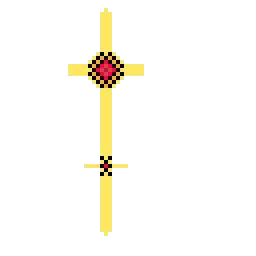
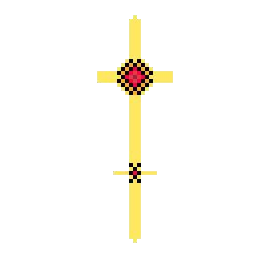
Add files via upload

Changed region(s): [[0.25, 0.0312, 0.6875, 0.9688]]

diff --git a/Game name/js/game_draw_inv.js b/Game name/js/game_draw_inv.js
@@ -53,6 +53,8 @@ function drawinv()
 				{
 					xkr = i; ykr = j;
 					ctx.strokeRect(i*1000, j*1000, 1000, 1000);
+					if (hola)
+						ctx.drawImage(hol,i*1000+40, j*1000+40, 920, 920);
 					ctx.drawImage(krestik,i*1000+40, j*1000+40, 920, 920);
 					break;
 				}
@@ -149,7 +151,7 @@ function drawinv()
 			{
 				ctx.fillRect(xncont+100, yvcont+500, 1000, 500);
 				ctx.fillRect(xncont+1200, yvcont+500, 1500, 500);
-					ctx.fillRect(xncont+2800, yvcont+500, 1000, 500);
+				ctx.fillRect(xncont+2800, yvcont+500, 1000, 500);
 				ctx.fillStyle = "rgba(255, 255, 255, 0.7)";
 				ctx.font = "220px 'Didact Gothic', sans-serif";
 				ctx.textAlign = "center";
@@ -212,21 +214,27 @@ function drawinv()
 			}
 			case 6://krestcont
 			{
-				ctx.fillRect(xncont+500, yvcont+500, 1500, 500);
-				ctx.fillRect(xncont+2100, yvcont+500, 1500, 500);
+				ctx.fillRect(xncont+100, yvcont+500, 1500, 500);
+				ctx.fillRect(xncont+1700, yvcont+500, 1000, 500);
+				ctx.fillRect(xncont+2800, yvcont+500, 1000, 500);
 				ctx.fillStyle = "rgba(255, 255, 255, 0.7)";
-				ctx.font = "300px 'Didact Gothic', sans-serif";
+				ctx.font = "220px 'Didact Gothic', sans-serif";
 				ctx.textAlign = "center";
-				ctx.fillText("Ўзяць у рукі", xncont+1250, yvcont+850);
-				ctx.fillText("Выкінуць", xncont+2850, yvcont+850);
+				ctx.fillText("Узяць у рукі", xncont+850, yvcont+850);
+				ctx.fillText("Асвяціць", xncont+2200, yvcont+850);
+				ctx.fillText("Выкінуць", xncont+3300, yvcont+850);
 				ctx.strokeStyle = "slategray";
-				ctx.strokeRect(xncont+500, yvcont+500, 1500, 500);
-				ctx.strokeRect(xncont+2100, yvcont+500, 1500, 500);
+				ctx.strokeRect(xncont+100, yvcont+500, 1500, 500);
+				ctx.strokeRect(xncont+1700, yvcont+500, 1000, 500);
+				ctx.strokeRect(xncont+2800, yvcont+500, 1000, 500);
 				ctx.strokeStyle = "white";
-				if (!cont)
-					ctx.strokeRect(xncont+500, yvcont+500, 1500, 500);
+				if (cont == 0)
+					ctx.strokeRect(xncont+100, yvcont+500, 1500, 500);
 				else
-					ctx.strokeRect(xncont+2100, yvcont+500, 1500, 500);
+					if (cont == 1)
+						ctx.strokeRect(xncont+1700, yvcont+500, 1000, 500);
+					else
+						ctx.strokeRect(xncont+2800, yvcont+500, 1000, 500);
 				break;
 			}
 			case 7://mechcont
@@ -234,9 +242,10 @@ function drawinv()
 				ctx.fillRect(xncont+500, yvcont+500, 1500, 500);
 				ctx.fillRect(xncont+2100, yvcont+500, 1500, 500);
 				ctx.fillStyle = "rgba(255, 255, 255, 0.7)";
-				ctx.font = "300px 'Didact Gothic', sans-serif";
+				ctx.font = "220px 'Didact Gothic', sans-serif";
 				ctx.textAlign = "center";
 				ctx.fillText("Экіпіраваць", xncont+1250, yvcont+850);
+				ctx.font = "300px 'Didact Gothic', sans-serif";
 				ctx.fillText("Выкінуць", xncont+2850, yvcont+850);
 				ctx.strokeStyle = "slategray";
 				ctx.strokeRect(xncont+500, yvcont+500, 1500, 500);

diff --git a/Game name/js/game_control_use.js b/Game name/js/game_control_use.js
@@ -7,9 +7,10 @@ function use()
 			invchs();
 		}
 		else
+		{
 			if (inv[x_inv][y_inv] != 10)
 			{
-				if (inv[x_inv][y_inv] != 3 || cont == 2)
+				if ((inv[x_inv][y_inv] != 3 && inv[x_inv][y_inv] != 6) || cont == 2)
 				{
 					items[plposx][plposy] = inv[x_inv][y_inv];
 					inv[x_inv][y_inv] = 0;
@@ -18,14 +19,34 @@ function use()
 				}
 				else
 				{
-					bgbtlst += 350;
-					if (bgbtlst > bgbtlstmax)
-						bgbtlst = bgbtlstmax;
-					inv[x_inv][y_inv] = 0;
-					srtinv();
-					srtinv();
+					if (inv[x_inv][y_inv] == 3)
+					{
+						bgbtlst += 350;
+						if (bgbtlst > bgbtlstmax)
+							bgbtlst = bgbtlstmax;
+						inv[x_inv][y_inv] = 0;
+						srtinv();
+						srtinv();
+					}
+					else
+					{
+						let boti = 0;
+						for (let i = 0; i < 7; i++)
+							for (let j = 0; j < 6; j++)
+								if (inv[i][j] == 3)
+								{
+									boti = 1;
+									inv[i][j] = 0;
+									break;
+								}
+						if (boti)
+						{
+							hola = 1;
+						}
+					}
 				}
 			}
+		}
 		cont = 0;
 		opcontmenu = 0;
 		return 0;

diff --git a/Game name/js/game_invent.js b/Game name/js/game_invent.js
@@ -43,15 +43,19 @@ function invchs()
 		}
 		case 6: //krest
 		{
-			if (!krest)
-				krest = 1;
-			else
-				krest = 0;
+			if (hola)
+			{
+				if (!krest)
+					krest = 20;
+				else
+					krest = 0;
+				hola = 0;
+			}
 			break;
 		}
 		case 7: //mech
 		{
-			if (!krest)
+			if (!mech)
 			{
 				mech = 1;
 				dam = 20;
@@ -118,7 +122,7 @@ function invinf()
 		}
 		case 6://krest
 		{
-			document.getElementById("inf").innerHTML = "Крэст экспедыцыі, якую вам трэба знайсці. Адпужвае слабых мабоў";
+			document.getElementById("inf").innerHTML = "Крэст экспедыцыі, якую вам трэба знайсці. Адпужвае слабых мабоў, калі ўзяць у рукі асвятлённым, але з-за злой аўры гэтага месца асвятлення хапае толькі на 20 хадоў. Каб асвяціць, варта выліць ваду з малой бутэлькі на крэст.";
 			break;
 		}
 		case 7://mech

diff --git a/Game name/js/mobhod.js b/Game name/js/mobhod.js
@@ -11,11 +11,11 @@ function  mobhod()
 				if (Math.sqrt((mbx - plposx)*(mbx - plposx)+(mby - plposy)*(mby - plposy)) < 3)
 				{
 					inf.style.display = "block";
-					inf.innerHTML += "Жывёла ХХХ. Сіла 10. HP: " + mobs[mbx][mby][2] + ";<br>";
+					inf.innerHTML += "Слабая пачвара. Сіла 7. HP: " + mobs[mbx][mby][2] + ";<br>";
 				}
 				if (Math.sqrt((mbx - plposx)*(mbx - plposx)+(mby - plposy)*(mby - plposy)) < 2.2)
 				{
-					if (krest)
+					if (krest > 0)
 					{
 						if (Math.sqrt((mbx - plposx)*(mbx - plposx)+(mby - plposy)*(mby - plposy)) <= Math.sqrt((mbx+1 - plposx)*(mbx+1 - plposx)+(mby - plposy)*(mby - plposy)) && hodvozm(mbx+1, mby))
 						{
@@ -38,7 +38,7 @@ function  mobhod()
 									}
 					}
 				}
-				if (mbrangedam(mbx, mby, plposx, plposy))
+				if (mbrangedam(mbx, mby, plposx, plposy) && !krest)
 				{
 					hp-=mbdam(mobs[mbx][mby][0]);
 				}
@@ -115,7 +115,7 @@ function mbdam(mobb)
 	{
 		case 1:
 		{
-			return 10;
+			return 7;
 		}
 		default:
 		{

diff --git a/Game name/js/game_mem.js b/Game name/js/game_mem.js
@@ -3,7 +3,7 @@ var opinv = 0; var debugonn = 0; var x_inv = 0; var y_inv = 0;
 var opcontmenu = 0; var cont = 0;
 var maxwidth = 31; var maxheight = 31; var minsz = 7; var maxsz = 3; var lvl = 1;
 var plposx; var plposy; var lev = 0;
-var nazh = 0; var tryap = 0; var krest = 0; var mech = 0; dam = 10;
+var nazh = 0; var tryap = 0; var krest = 0; var hola = 0; var mech = 0; var dam = 10;
 var perreg = 0; var superreg = 0;
 var kills = 0;
 var lightmax = 200; var light = lightmax;

diff --git a/Game name/js/game_control_main.js b/Game name/js/game_control_main.js
@@ -149,7 +149,7 @@ function left()
 {
 	if (opcontmenu)
 	{
-		if (inv[x_inv][y_inv] != 3)
+		if (inv[x_inv][y_inv] != 3 && inv[x_inv][y_inv] != 6)
 			if (cont == 1)
 				cont = 0;
 			else
@@ -199,7 +199,7 @@ function right()
 {
 	if (opcontmenu)
 	{
-		if (inv[x_inv][y_inv] != 3)
+		if (inv[x_inv][y_inv] != 3 && inv[x_inv][y_inv] != 6)
 			if (cont == 0)
 				cont = 1;
 			else

diff --git a/Game name/js/game_texture.js b/Game name/js/game_texture.js
@@ -47,6 +47,8 @@
 	mch.src = "../img/predm/mech.png";
 	var bgbtl = new Image;
 	bgbtl.src = "../img/predm/big_bottle.png";
+	var hol = new Image;
+	hol.src = "../img/hola.png";
 //
 //mobs
 	var mob1l = new Image;

diff --git a/Game name/js/game_hod.js b/Game name/js/game_hod.js
@@ -1,6 +1,8 @@
 function next_hod()
 {
 	light--;
+	if (krest)
+		krest--;
 	if (superreg > 0)
 	{
 		superreg--;
